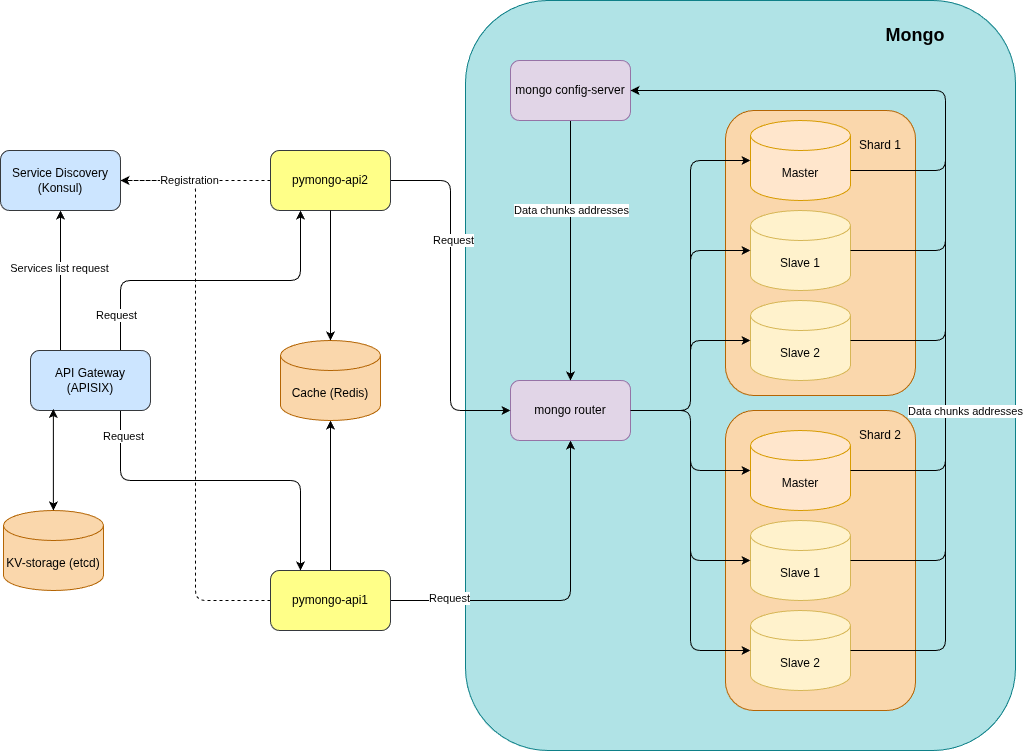
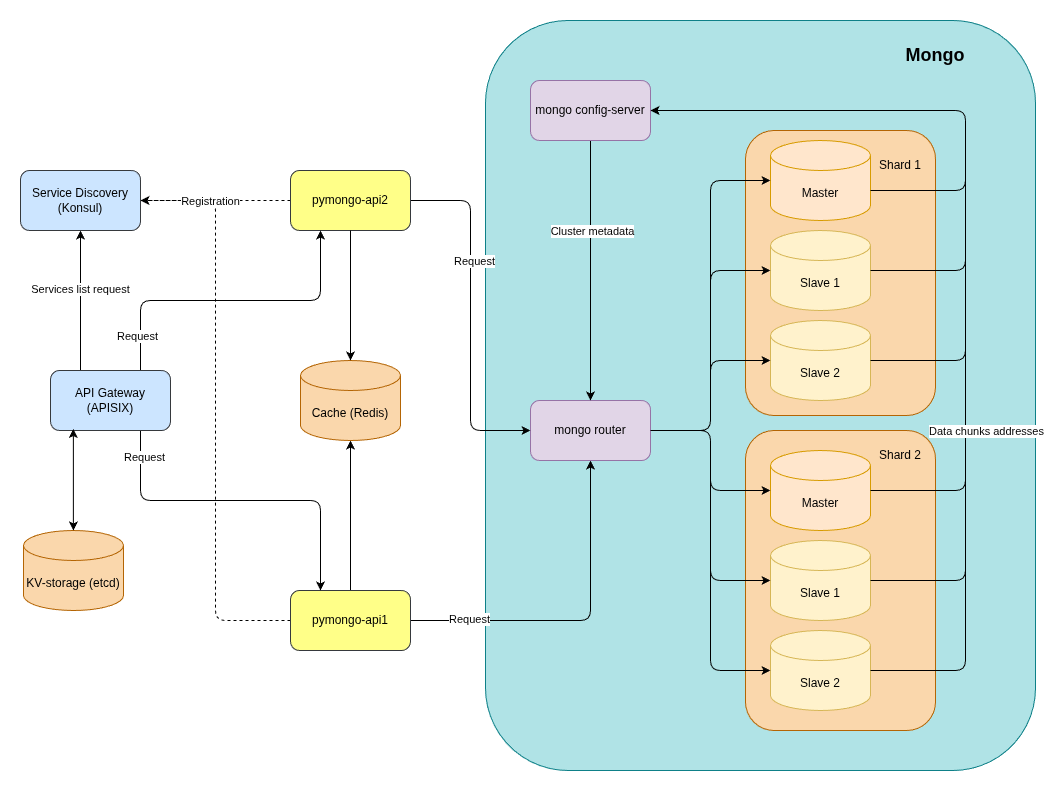
self-review fixes

diff --git a/task7-10-data-structure/adrs/adr7_collections.md b/task7-10-data-structure/adrs/adr7_collections.md
@@ -37,12 +37,18 @@ ER-диаграмма предлагаемой структуры данных: 
 Схема шардирования: [drawio](../schemes/shards.drawio) | [png](../schemes/shards.png).
 
 Логика принятия решений:
-- Для обеспечения быстроты операций с заказами следующие коллекции шардированы по геолокации методом геошардинга (F1.[1-3], F3.2, P1.[1-2], P3.1, R+1.1)
-    - Orders.
-    - Users: добавлено поле (location) так как ожидается, что большинство пользователей "геостационарны".
-    - ProductReminders: вынесены в самостоятельную коллекцию, одна запись - остаток по конкретному товару (product_id) в конкретном месте (location). Записи в остатках привязаны к исходной коллекции Products (поле product_id).
+- Для обеспечения быстроты операций с заказами следующие коллекции шардированы по геолокации методом геошардинга (F1.[1-3], F3.2, P1.[1-2], P3.1, R+1.1) с использованием составных ключей для равномерного распределения для насыщенных регионов
+    - Orders. Ключ шардирования: (location, user_id)
+    - Users:
+        - добавлено поле (location).
+        - ключ шардирования: (location, user_id),
+        - ожидается, что большинство пользователей "геостационарны",
+    - ProductReminders:
+        - вынесены в самостоятельную коллекцию, одна запись - остаток по конкретному товару (product_id) в конкретном месте (location),
+        - записи в остатках привязаны к исходной коллекции Products (поле product_id),
+        - ключ шардирования: (location, product_id)
 - Products дублированы в каждом шарде (F2.[1-3], P2.[1-2]):
-    - Это позволяет ограничить все операции поиска в продуктах данными из одного шарда и решить локальными индексами.
+    - Это позволяет ограничить все операции поиска в продуктах данными из одного шарда и решить вопрос производительности локальными индексами.
     - В требованиях есть акцент на скорость выполнения операций, а явных ограничений по расходу места на серверах нет. Набор продуктов не так велик как пользователей или заказов;
     - Поддержка консистентности между шардами будет обеспечена плановым процессом так как добавление новых товаров управляется нами, и мы можем запланировать и произвести его в удобное время во все шарды одновременно. Не ожидается, что нужно будет массово срочно добавлять товары.
 - Коллекция Carts (F3.[1,3,4], P3.2):
@@ -57,29 +63,26 @@ ER-диаграмма предлагаемой структуры данных: 
 
 ### Альтернативы
 1. Отказ от дублирования Products, шардирование по категориям. Отказ от хранения остатков в отдельных таблицах и хранение в Products.
-Категории не получается однозначно увязать с геолокацией и шардировать так, чтобы большинство запросы происходили в рамках одного шарда.
-
-Данное решение:
-- позволяет сэкономить место на серверах;
-- не имеет проблем с межрегиональными заказами;
-- несет риски не выполнить требования по производительности при операциях с products продукты из-за потенциальной необходимости обращения к разным шардам.
+Категории не получается однозначно увязать с геолокацией и шардировать так, чтобы большинство запросов обрабатывались в рамках одного шарда. Данное решение:
+    - позволяет сэкономить место на серверах;
+    - не имеет проблем с межрегиональными заказами;
+    - несет риски не выполнить требования по производительности при операциях с products из-за потенциальной необходимости обращения к разным шардам.
 
 2. Шардирование по пользователям и категориям продуктов. Users шардируется по id, Products по category.
 Данное решение позволяет:
-- уменьшить риск возникновения горячих шардов за счет равномерности распределения;
-- несет риск не выполнить требования по производительности за счет возможности попадания пользователей и категорий продуктов в разные шарды.
+    - уменьшить риск возникновения горячих шардов за счет равномерности распределения;
+    - несет риск не выполнить требования по производительности за счет возможности попадания пользователей и категорий продуктов в разные шарды.
 
 
 ### Недостатки, ограничения, риски
-Недостатки:
+**Недостатки:**
 - Products дублированы в шарде каждого региона.
 - Для получения товаров из разных регионов нужно оформить несколько заказов.
 
-Ограничения:
+**Ограничения:**
 - Пользователи может заказывать товары только исходя из остатков в целевом (а не домашнем) регионе.
 
-Риски:
-- Риск возникновения горячих шардов в популярных регионах.
+**Риски:**
 - Межрегиональные операции могут не выполнять требования производительности так как подразумевают чтение данных из нескольких шардов.
     - Создание заказов с вычитанием остатка.
     - Просмотр заказов пользователя.

diff --git a/task5-service-discovery-api-gw/README.md b/task5-service-discovery-api-gw/README.md
@@ -2,24 +2,23 @@
 
 Схема масштабирования: [drawio](arch.drawio) | [png](arch.png).
 
-В этом задании, в отличии о предыдущих, не просили прикладывать инструкции и осуществлять какое-либо развертывание, однако я заинтересовался темой и решил проделать эту работу. По этой инпричине инструкция менее подробная, чем в других заданиях, где её просили явно.
+В этом задании, в отличии о предыдущих, не просили прикладывать инструкции и осуществлять какое-либо развертывание, однако я заинтересовался темой и решил проделать эту работу. По этой причине инструкция менее подробная, чем в других заданиях, где её просили явно.
 
 <details>
 <summary> Инструкция </summary>
 
 - Запуск и настройка необходимых сервисов.
   ```bash
-  cd service_discovery_api_gw
   ./run.sh
   ```
 
 - Проверка работы балансировки:
   ```bash
   # Первый терминал: мониторинг логов 1ого инстанса
-  watch docker-compose logs pymongo_api1
+  watch -d "docker-compose logs pymongo_api1 | tail"
 
   # Второй терминал: мониторинг логов 2ого инстанса
-  watch docker-compose logs pymongo_api2
+  watch -d "docker-compose logs pymongo_api2 | tail"
 
   # Третий терминал: запросы
   curl http://localhost:9080
@@ -34,10 +33,10 @@
 - Проверка отказоустойчивости:
   ```bash
   # Первый терминал: мониторинг логов 1ого инстанса
-  watch docker-compose logs pymongo_api1
+  watch -d "docker-compose logs pymongo_api1 | tail"
 
   # Второй терминал: мониторинг логов 2ого инстанса
-  watch docker-compose logs pymongo_api2
+  watch -d "docker-compose logs pymongo_api2 | tail"
 
   # Третий терминал
   docker-compose stop pymongo_api1
@@ -64,10 +63,10 @@
 - Проверка возможностей ServiceDiscovery:
   ```bash
   # Первый терминал: мониторинг логов 1ого инстанса
-  watch docker-compose logs pymongo_api1
+  watch -d "docker-compose logs pymongo_api1 | tail"
 
   # Второй терминал: мониторинг логов 2ого инстанса
-  watch docker-compose logs pymongo_api2
+  watch -d "docker-compose logs pymongo_api2 | tail"
 
   # Третий терминал
   # Дерегистрируем один из инстансов в Consul
@@ -90,6 +89,9 @@
       "Warning": 1
     }
   }'
+  curl http://localhost:9080
+  curl http://localhost:9080
+  curl http://localhost:9080
   ```
   Ожидаемый результат:
   - После дерегистрации pymongo_api1 все запросы успешно обрабатываются pymongo_api2.

diff --git a/task3-mongo-sharding-repl/README.md b/task3-mongo-sharding-repl/README.md
@@ -1,6 +1,6 @@
 # Настройка шардирования с репликацией и запуск системы
 
-Нижеприведенная последовательность команд составлена в том числе для изучения с контролем изменений и результатов отдельных команд. Для быстроты можно воспользоваться [скриптом](run.sh), содержащим необходимый минимум. В нем нет вывода и проверок успешности операций.
+Нижеприведенная последовательность команд составлена в том числе для изучения с контролем изменений и результатов отдельных команд. Для быстроты можно воспользоваться [скриптом](run.sh), содержащим необходимый минимум. В нем проверок успешности операций.
 
 - Создание и запуск сервиса конфигураций и двух шардов.
   ```bash
@@ -129,7 +129,7 @@
   # X11 + X21 = N + 1000
   ```
 
-- Для очистки (вместе с volumes) можно использовать команду
+- Для остановки и очистки volumes можно использовать команду
   ```bash
   docker-compose down -v
   ```

diff --git a/task2-mongo-sharding/README.md b/task2-mongo-sharding/README.md
@@ -1,6 +1,6 @@
 # Настройка шардирования и запуск системы
 
-Нижеприведенная последовательность команд составлена в том числе для изучения с контролем изменений и результатов отдельных команд. Для быстроты можно воспользоваться [скриптом](run.sh), содержащим необходимый минимум. В нем нет вывода и проверок успешности операций.
+Нижеприведенная последовательность команд составлена в том числе для изучения с контролем изменений и результатов отдельных команд. Для быстроты можно воспользоваться [скриптом](run.sh), содержащим необходимый минимум. В нем проверок успешности операций.
 
 - Создание и запуск сервиса
   ```bash
@@ -101,7 +101,7 @@
   # X1 + X2 = N + 1000
   ```
 
-- Для очистки (вместе с volumes) можно использовать команду
+- Для остановки и очистки volumes можно использовать команду
   ```bash
   docker-compose down -v
   ```

diff --git a/task7-10-data-structure/adrs/adr9_replics.md b/task7-10-data-structure/adrs/adr9_replics.md
@@ -1,6 +1,4 @@
-# Настройка чтения с реплик и консистентность
-
-### Название задачи: проектирование схем коллекций для шардирования данных.
+### Название задачи: настройка чтения с реплик и консистентность.
 ### Автор: Михейчев И.С.
 ### Дата: 5.02.2026
 ### Функциональные требования

diff --git a/task4-mongo-sharding-repl-cache/README.md b/task4-mongo-sharding-repl-cache/README.md
@@ -43,7 +43,7 @@
   - Status: 200
     Total time: 1.010782s
 
-- Для очистки (вместе с volumes) можно использовать команду
+- Для остановки и очистки volumes можно использовать команду
   ```bash
   docker-compose down -v
   ```

diff --git a/task7-10-data-structure/README.md b/task7-10-data-structure/README.md
@@ -3,3 +3,4 @@
 - [структура данных](./adrs/adr7_collections.md)
 - [горячие шарды](./adrs/adr8_hot_shards.md)
 - [чтение с реплик](./adrs/adr9_replics.md)
+- [переход на Cassandra](./adrs/adr10_cassandra.md)
